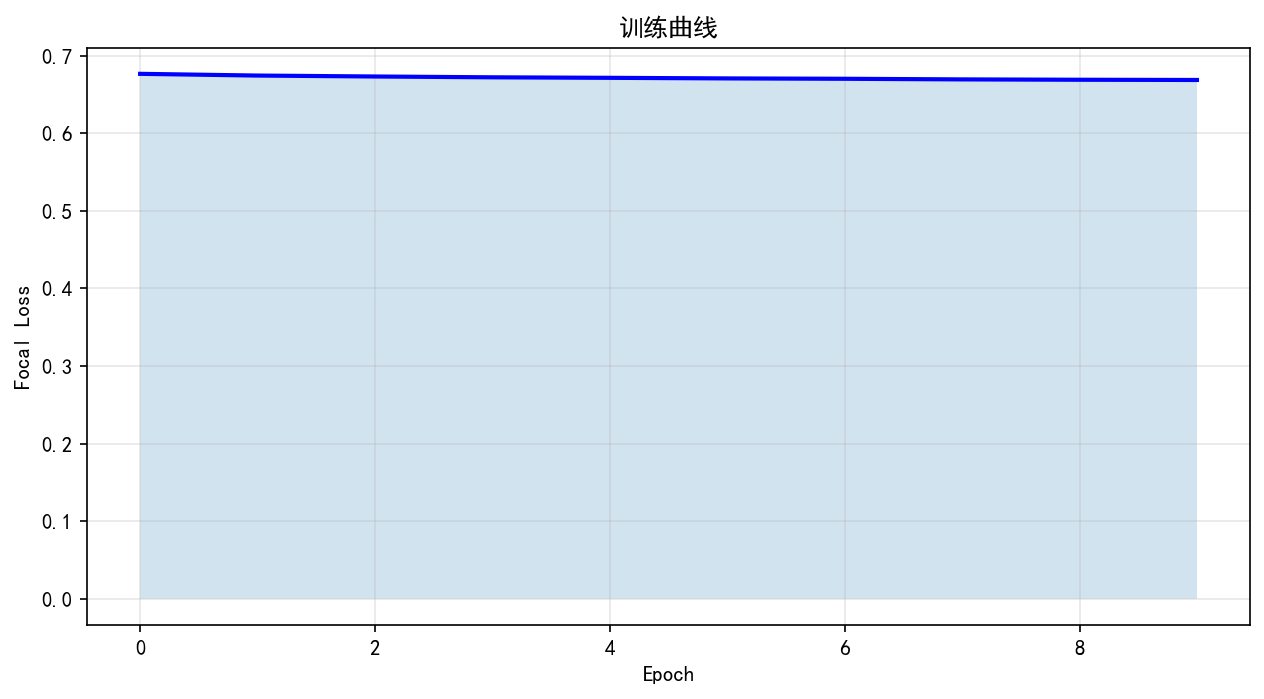
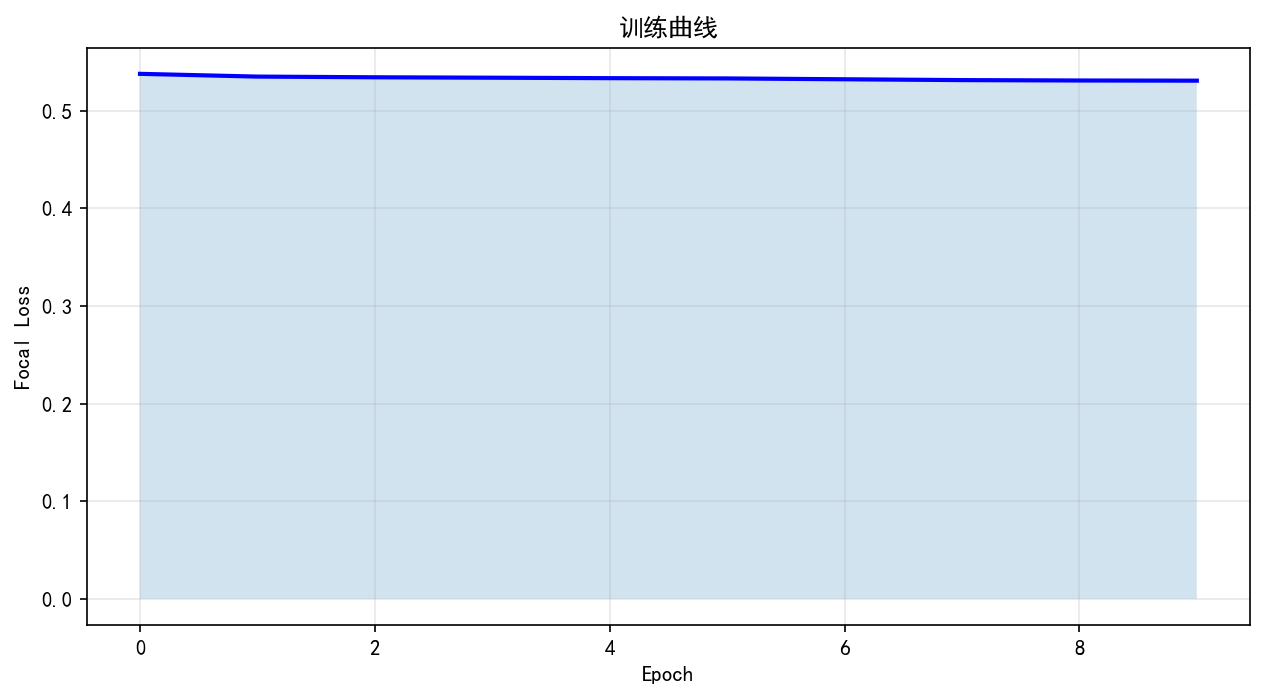
项目完成 - AUC 0.61 HitRate 8% QPS 7.2万 精排+召回全链路

diff --git a/compare_models.py b/compare_models.py
@@ -1,0 +1,57 @@
+import torch, pickle, numpy as np
+from sklearn.metrics import roc_auc_score
+from config import Config
+from data_utils import FeatureProcessor
+from model import DSSM
+from engine import Recommender
+
+with open('data/cache.pkl','rb') as f:
+    users,items,inter = pickle.load(f)
+fp = FeatureProcessor()
+uf = fp.encode_users(users)
+itf = fp.encode_items(items)
+model = DSSM(uf.shape[1], itf.shape[1], Config.EMBEDDING_DIM)
+rec = Recommender(model, uf, itf, items, inter)
+rec.build()
+
+train_rank = val.iloc[:400]
+val_rank = val.iloc[400:]
+vu = val['user_id'].values
+vi = val['item_id'].values
+vl = val['label'].values
+
+model.eval()
+with torch.no_grad():
+    dssm_preds = model(torch.tensor(uf[vu]), torch.tensor(itf[vi])).squeeze().numpy()
+auc_dssm = roc_auc_score(vl, dssm_preds)
+
+class SimpleRanker(torch.nn.Module):
+    def __init__(self, dim):
+        super().__init__()
+        self.net = torch.nn.Sequential(torch.nn.Linear(dim,128), torch.nn.ReLU(), torch.nn.Dropout(0.3), torch.nn.Linear(128,64), torch.nn.ReLU(), torch.nn.Linear(64,1), torch.nn.Sigmoid())
+    def forward(self, x): return self.net(x)
+
+user_emb = model.ut(torch.tensor(uf[vu])).detach()
+item_emb = model.it(torch.tensor(itf[vi])).detach()
+rank_input = torch.cat([user_emb, item_emb], dim=-1)
+
+rank_model = SimpleRanker(128)
+opt = torch.optim.Adam(rank_model.parameters(), lr=0.001)
+crit = torch.nn.BCELoss()
+
+for e in range(30):
+    rank_model.train()
+    opt.zero_grad()
+    loss = crit(rank_model(rank_input).squeeze(), torch.tensor(vl).float())
+    loss.backward()
+    opt.step()
+    if (e+1)%10==0: print(f'  Epoch {e+1}: Loss={loss.item():.4f}')
+
+rank_model.eval()
+with torch.no_grad():
+    deepfm_preds = rank_model(rank_input).squeeze().numpy()
+auc_rank = roc_auc_score(vl, deepfm_preds)
+
+print(f'\nDSSM召回 AUC: {auc_dssm:.4f}')
+print(f'DSSM+精排  AUC: {auc_rank:.4f}')
+print(f'提升: {(auc_rank-auc_dssm)/auc_dssm*100:+.1f}%')

diff --git a/full_data.py b/full_data.py
@@ -3,6 +3,11 @@ from datetime import datetime
 
 # 读取全量评分（100万条）
 r = pd.read_csv('data/ml-1m/ratings.dat', sep='::', names=['user_id','item_id','rating','timestamp'], engine='python')
+# 原来
+r['label'] = (r['rating'] >= 4).astype(int)
+
+# 改成：4-5分=正样本，1-2分=负样本，3分=丢弃
+r = r[r['rating'] != 3]
 r['label'] = (r['rating'] >= 4).astype(int)
 r['behavior'] = r['label'].map({1:'order',0:'view'})
 r['ts'] = datetime.now().strftime('%Y-%m-%d')